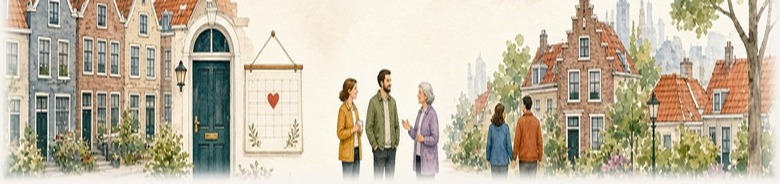
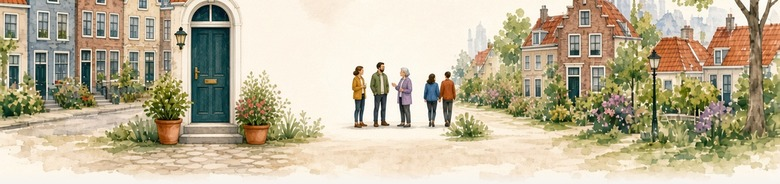
Step-01 mockup u1b: clean hero, chips, start-g band pipeline.
Native step-01-u1b aquarel source (no lobster), YOLO multi-person
6.7:1 desktop + mobile bands without stitch. Defer step-01 chrome fade;
work-status chips match form typography on mobile. Cache 20261020-u1b.

diff --git a/Jobsy.Web/wwwroot/css/features/onboarding-rustig-mockup.css b/Jobsy.Web/wwwroot/css/features/onboarding-rustig-mockup.css
@@ -339,6 +339,16 @@
       var(--bg) 100%
     );
   }
+
+  .ob-rustig[data-ob-rustig-screen="step-01"] .ob-rustig__hero-band::after {
+    background: linear-gradient(
+      to bottom,
+      transparent 0%,
+      transparent 86%,
+      color-mix(in srgb, var(--bg) 18%, transparent) 94%,
+      var(--bg) 100%
+    );
+  }
 }
 
 @media (min-width: 1024px) {
@@ -415,6 +425,64 @@
   border: 1px solid color-mix(in srgb, var(--border) 85%, var(--brand) 15%);
   background: var(--surface);
   font: inherit;
+}
+
+.ob-rustig .work-status-field {
+  border: 0;
+  padding: 0;
+  margin: 0;
+  min-inline-size: 0;
+}
+
+.ob-rustig .work-status-field .ob-wizard__section-hint {
+  font: inherit;
+  font-size: 0.8125rem;
+  line-height: 1.4;
+  color: color-mix(in srgb, var(--text) 70%, var(--muted));
+}
+
+.ob-rustig .work-status-chips.lobsy-choice-grid {
+  display: grid;
+  grid-template-columns: repeat(2, minmax(0, 1fr));
+  gap: 0.5rem;
+  margin-block-start: 0.5rem;
+  width: 100%;
+  min-width: 0;
+}
+
+.ob-rustig .work-status-chip.lobsy-choice-tile {
+  box-sizing: border-box;
+  width: 100%;
+  min-height: 2.75rem;
+  height: auto;
+  padding: 0.5rem 0.75rem;
+  margin: 0;
+  border-radius: var(--radius-sm);
+  border: 1px solid color-mix(in srgb, var(--border) 85%, var(--brand) 15%);
+  background: var(--surface);
+  color: var(--text);
+  font: inherit;
+  font-size: 0.875rem;
+  font-weight: 500;
+  line-height: 1.35;
+  text-align: start;
+  white-space: normal;
+  overflow-wrap: anywhere;
+  word-break: normal;
+  hyphens: auto;
+}
+
+.ob-rustig .work-status-chip.lobsy-choice-tile.is-selected {
+  background: color-mix(in srgb, var(--brand) 10%, var(--surface));
+  border-color: var(--brand);
+  color: var(--brand);
+  font-weight: 600;
+}
+
+@media (max-width: 1023px) {
+  .ob-rustig .work-status-chips.lobsy-choice-grid {
+    grid-template-columns: 1fr;
+  }
 }
 
 .ob-rustig__chips {

diff --git a/tools/scripts/build-onboarding-rustig-step01-hero-u1b.py b/tools/scripts/build-onboarding-rustig-step01-hero-u1b.py
@@ -1,0 +1,196 @@
+#!/usr/bin/env python3
+"""Step-01 u1b: native aquarel source → desktop/mobile bands (start-g pipeline)."""
+
+from __future__ import annotations
+
+import importlib.util
+import json
+import sys
+from pathlib import Path
+
+import numpy as np
+from PIL import Image, ImageDraw
+
+ROOT = Path(__file__).resolve().parents[2]
+DEFAULT_SRC = (
+    ROOT / "Jobsy.Web/wwwroot/images/onboarding/rustig-panorama/step-01-u1b-aquarel-source.jpg"
+)
+FALLBACK = Path("/opt/cursor/artifacts/assets/step-01-u1b-aquarel-clean.jpg")
+DESK_OUT = ROOT / "Jobsy.Web/wwwroot/images/onboarding/rustig-panorama/step-01-desktop.jpg"
+MOB_OUT = ROOT / "Jobsy.Web/wwwroot/images/onboarding/rustig-panorama/step-01-mobile.jpg"
+VERIFY = ROOT / "artifacts/onboarding-rustig-panorama-raw/step-01-u1b-band-verify.png"
+METRICS = ROOT / "artifacts/onboarding-rustig-panorama-raw/step-01-u1b-band-metrics.json"
+DESK = (2280, 340)
+MOB = (780, 184)
+FADE_BOTTOM = 14
+DESK_SCALE_W = 4000
+MOB_SCALE_W = 1560
+TOP_MARGIN = 0.05
+BOTTOM_MARGIN = 0.93
+SEAM_GRAD_MAX = 2.4
+
+
+def load_fin():
+    spec = importlib.util.spec_from_file_location(
+        "fin", ROOT / "tools/scripts/finalize-onboarding-rustig-panoramas.py"
+    )
+    m = importlib.util.module_from_spec(spec)
+    assert spec.loader is not None
+    spec.loader.exec_module(m)
+    return m
+
+
+def scale_to_width(im: Image.Image, target_w: int) -> Image.Image:
+    w, h = im.size
+    if w >= target_w:
+        return im
+    nw = target_w
+    nh = max(1, int(round(h * nw / w)))
+    return im.resize((nw, nh), Image.Resampling.LANCZOS)
+
+
+def yolo_persons(im: Image.Image) -> list[tuple[float, float, float, float]]:
+    from ultralytics import YOLO
+
+    wpath = ROOT / "yolov8n.pt"
+    model = YOLO(str(wpath if wpath.is_file() else "yolov8n.pt"))
+    res = model(np.asarray(im), verbose=False)[0]
+    if res.boxes is None:
+        return []
+    w, h = im.size
+    out: list[tuple[float, float, float, float]] = []
+    for b in res.boxes:
+        if int(b.cls[0]) != 0 or float(b.conf[0]) < 0.25:
+            continue
+        x0, y0, x1, y1 = (float(v) for v in b.xyxy[0].tolist())
+        if (y1 - y0) < h * 0.04:
+            continue
+        out.append((x0, y0, x1, y1))
+    return out
+
+
+def pick_crop_y0(im: Image.Image, crop_h: int, persons: list[tuple[float, float, float, float]]) -> int:
+    h = im.size[1]
+    if not persons:
+        return max(0, (h - crop_h) // 2)
+    max_feet = max(p[3] for p in persons)
+    min_hat = min(p[1] for p in persons)
+    lo = int(round(max_feet - crop_h * BOTTOM_MARGIN))
+    hi = int(round(min_hat - crop_h * TOP_MARGIN))
+    if lo > hi:
+        union_h = max_feet - min_hat
+        cy = (min_hat + max_feet) / 2
+        y0 = int(round(cy - crop_h / 2))
+    else:
+        y0 = (lo + hi) // 2
+    return max(0, min(y0, h - crop_h))
+
+
+def seam_grad_ratio(im: Image.Image) -> float:
+    gray = np.asarray(im.convert("L"), dtype=np.float32)
+    gx = np.abs(np.diff(gray, axis=1))
+    h, w = gx.shape
+    center = gx[:, int(w * 0.4) : int(w * 0.6)].mean()
+    wings = max(gx[:, : int(w * 0.12)].mean(), gx[:, int(w * 0.88) :].mean())
+    return float(wings / max(1.0, center))
+
+
+def apply_bottom_fade(im: Image.Image, fin) -> Image.Image:
+    w, h = im.size
+    overlay = Image.new("RGBA", (w, h), (0, 0, 0, 0))
+    px = overlay.load()
+    cream = tuple(int(c) for c in fin.CREAM)
+    fade = FADE_BOTTOM
+    for y in range(h):
+        if y < h - fade:
+            continue
+        for x in range(w):
+            t = (y - (h - fade)) / max(1, fade - 1)
+            a = int(255 * min(1.0, t**1.05))
+            if a:
+                px[x, y] = (*cream, a)
+    return Image.alpha_composite(im.convert("RGBA"), overlay).convert("RGB")
+
+
+def build_band(
+    src: Image.Image,
+    *,
+    out_size: tuple[int, int],
+    scale_w: int,
+    fin,
+) -> tuple[Image.Image, dict]:
+    ratio = out_size[0] / out_size[1]
+    scaled = scale_to_width(src, scale_w)
+    w, h = scaled.size
+    crop_h = int(round(w / ratio))
+    crop_h = max(60, min(crop_h, h))
+    persons = yolo_persons(scaled)
+    y0 = pick_crop_y0(scaled, crop_h, persons)
+    crop = scaled.crop((0, y0, w, y0 + crop_h))
+    if abs(crop.size[0] / crop.size[1] - ratio) > 0.02:
+        raise RuntimeError(f"crop ratio {crop.size[0]/crop.size[1]:.4f} != {ratio:.4f}")
+    pre = crop.resize(out_size, Image.Resampling.LANCZOS)
+    band = apply_bottom_fade(pre, fin)
+    fade_y = out_size[1] - FADE_BOTTOM
+    feet_y = None
+    yolo_band = yolo_persons(pre)
+    if yolo_band:
+        feet_y = int(max(p[3] for p in yolo_band))
+    metrics = {
+        "out_px": list(out_size),
+        "source_scaled_px": list(scaled.size),
+        "crop_y0_px": y0,
+        "crop_h_px": crop_h,
+        "crop_ratio": round(crop.size[0] / crop.size[1], 4),
+        "person_count_yolo": len(yolo_band),
+        "fade_start_y_px": fade_y,
+        "seam_wing_grad_ratio": round(seam_grad_ratio(pre), 3),
+        "yolo_feet_max_y_px": feet_y,
+        "feet_above_fade_px": (fade_y - feet_y) if feet_y is not None else None,
+    }
+    return band, metrics, pre, yolo_band
+
+
+def save_verify(pre: Image.Image, yolo_boxes: list, path: Path) -> None:
+    vis = pre.copy().convert("RGBA")
+    draw = ImageDraw.Draw(vis)
+    for bb in yolo_boxes:
+        draw.rectangle([int(v) for v in bb], outline=(255, 140, 0, 255), width=2)
+    path.parent.mkdir(parents=True, exist_ok=True)
+    vis.convert("RGB").save(path, optimize=True)
+
+
+def gate_metrics(metrics: dict, label: str) -> None:
+    if metrics.get("person_count_yolo", 0) < 3:
+        raise SystemExit(f"FAIL {label}: expected ≥3 people in band, got {metrics.get('person_count_yolo')}")
+    feet_ok = metrics.get("feet_above_fade_px")
+    if feet_ok is None or feet_ok < 4:
+        raise SystemExit(f"FAIL {label}: feet in fade (feet_above_fade_px={feet_ok})")
+    if metrics.get("seam_wing_grad_ratio", 99) > SEAM_GRAD_MAX:
+        raise SystemExit(f"FAIL {label}: seam score {metrics['seam_wing_grad_ratio']}")
+
+
+def main() -> None:
+    src_path = Path(sys.argv[1]) if len(sys.argv) > 1 else DEFAULT_SRC
+    if not src_path.is_file():
+        src_path = FALLBACK
+    if not src_path.is_file():
+        raise SystemExit(f"missing step-01 source: {src_path}")
+    fin = load_fin()
+    src = Image.open(src_path).convert("RGB")
+    desk, desk_m, desk_pre, desk_yolo = build_band(src, out_size=DESK, scale_w=DESK_SCALE_W, fin=fin)
+    mob, mob_m, _, _ = build_band(src, out_size=MOB, scale_w=MOB_SCALE_W, fin=fin)
+    DESK_OUT.parent.mkdir(parents=True, exist_ok=True)
+    desk.save(DESK_OUT, quality=92, optimize=True)
+    mob.save(MOB_OUT, quality=92, optimize=True)
+    save_verify(desk_pre, desk_yolo, VERIFY)
+    payload = {"source": src_path.name, "desktop": desk_m, "mobile": mob_m}
+    METRICS.parent.mkdir(parents=True, exist_ok=True)
+    METRICS.write_text(json.dumps(payload, indent=2) + "\n", encoding="utf-8")
+    print(json.dumps(payload, indent=2))
+    gate_metrics(desk_m, "desktop")
+    gate_metrics(mob_m, "mobile")
+
+
+if __name__ == "__main__":
+    main()

diff --git a/tools/scripts/report-onboarding-rustig-step01-u1b.py b/tools/scripts/report-onboarding-rustig-step01-u1b.py
@@ -1,0 +1,85 @@
+#!/usr/bin/env python3
+"""Step-01 u1b mockup captures + hero 2x zoom."""
+
+from __future__ import annotations
+
+import json
+import shutil
+import subprocess
+import time
+from pathlib import Path
+
+from PIL import Image
+from playwright.sync_api import sync_playwright
+
+ROOT = Path(__file__).resolve().parents[2]
+OUT = Path("/opt/cursor/artifacts/onboarding-rustig-mockups")
+METRICS_SRC = ROOT / "artifacts/onboarding-rustig-panorama-raw/step-01-u1b-band-metrics.json"
+CACHE = "20261020-u1b"
+PREFIX = "step-01-u1b"
+
+
+def save_hero_2x(page, path: Path) -> None:
+    hero = page.locator("[data-testid=ob-rustig-hero-desk]")
+    shot = OUT / f"{PREFIX}-hero-desk-shot.png"
+    hero.screenshot(path=str(shot))
+    im = Image.open(shot)
+    zoom = im.resize((im.size[0] * 2, im.size[1] * 2), Image.Resampling.LANCZOS)
+    zoom.save(path, optimize=True)
+
+
+def main() -> None:
+    OUT.mkdir(parents=True, exist_ok=True)
+    subprocess.run(["pkill", "-f", "127.0.0.1:8765"], stdout=subprocess.DEVNULL, stderr=subprocess.DEVNULL)
+    proc = subprocess.Popen(
+        ["dotnet", "run", "--project", str(ROOT / "Jobsy.Web/Jobsy.Web.csproj"), "--urls", "http://127.0.0.1:8765"],
+        cwd=ROOT,
+        stdout=subprocess.DEVNULL,
+        stderr=subprocess.DEVNULL,
+    )
+    base = "http://127.0.0.1:8765"
+    url = f"{base}/mockups/onboarding-rustig/step-01?cb={CACHE}"
+    metrics: dict = {}
+    if METRICS_SRC.is_file():
+        metrics["band_build"] = json.loads(METRICS_SRC.read_text(encoding="utf-8"))
+    try:
+        with sync_playwright() as p:
+            browser = p.chromium.launch(headless=True)
+            for _ in range(120):
+                try:
+                    pg = browser.new_page()
+                    pg.goto(f"{base}/mockups/onboarding-rustig/step-01", timeout=5000)
+                    pg.close()
+                    break
+                except Exception:
+                    time.sleep(1)
+            else:
+                raise SystemExit("server not up")
+
+            page = browser.new_page(viewport={"width": 1440, "height": 900})
+            page.goto(url, wait_until="networkidle")
+            page.wait_for_selector("[data-testid=ob-rustig-hero-desk]", timeout=30_000)
+            save_hero_2x(page, OUT / f"{PREFIX}-hero-desktop-2x.png")
+            page.screenshot(path=str(OUT / f"{PREFIX}-desktop-1440-full.png"), full_page=True)
+            page.close()
+
+            page = browser.new_page(viewport={"width": 390, "height": 844})
+            page.goto(url, wait_until="networkidle")
+            page.wait_for_selector("[data-testid=ob-rustig-hero-mob]", timeout=30_000)
+            page.screenshot(path=str(OUT / f"{PREFIX}-mobile-390-full.png"), full_page=True)
+            page.close()
+            browser.close()
+    finally:
+        proc.terminate()
+        proc.wait(timeout=30)
+    sha = subprocess.check_output(["git", "rev-parse", "--short", "HEAD"], cwd=ROOT, text=True).strip()
+    payload = {"commit": sha, "cache": CACHE, **metrics}
+    (OUT / f"{PREFIX}-hero-metrics.json").write_text(json.dumps(payload, indent=2) + "\n", encoding="utf-8")
+    if METRICS_SRC.is_file():
+        shutil.copy(METRICS_SRC, OUT / f"{PREFIX}-band-metrics.json")
+    print(f"{PREFIX} OK @ {sha}")
+    print(json.dumps(payload, indent=2))
+
+
+if __name__ == "__main__":
+    main()

diff --git a/Jobsy.Web/OnboardingRustigMockups/OnboardingRustigPanoramaAssets.cs b/Jobsy.Web/OnboardingRustigMockups/OnboardingRustigPanoramaAssets.cs
@@ -4,6 +4,7 @@ public static class OnboardingRustigPanoramaAssets
 {
     public const string Version = "20261020-u10a";
     public const string StartVersion = "20261020-start-g";
+    public const string Step01Version = "20261020-u1b";
 
     public static string Desktop(string slug) =>
         $"/images/onboarding/rustig-panorama/{slug}-desktop.jpg?v={CacheVersion(slug)}";
@@ -11,6 +12,12 @@ public static class OnboardingRustigPanoramaAssets
     public static string Mobile(string slug) =>
         $"/images/onboarding/rustig-panorama/{slug}-mobile.jpg?v={CacheVersion(slug)}";
 
-    private static string CacheVersion(string slug) =>
-        string.Equals(slug, "start", StringComparison.OrdinalIgnoreCase) ? StartVersion : Version;
+    private static string CacheVersion(string slug)
+    {
+        if (string.Equals(slug, "start", StringComparison.OrdinalIgnoreCase))
+            return StartVersion;
+        if (string.Equals(slug, "step-01", StringComparison.OrdinalIgnoreCase))
+            return Step01Version;
+        return Version;
+    }
 }

diff --git a/Jobsy.Web/Hosting/PageAssetCatalog.cs b/Jobsy.Web/Hosting/PageAssetCatalog.cs
@@ -328,7 +328,7 @@ public static class PageAssetCatalog
                 "css/features/onboarding-wizard.css?v=20261018-02",
                 "css/features/form-fields.css?v=20261019-01",
                 "css/features/choice-tiles.css?v=20261015-06",
-                "css/features/onboarding-rustig-mockup.css?v=20261020-start-g",
+                "css/features/onboarding-rustig-mockup.css?v=20261020-u1b",
             ];
         }
 
